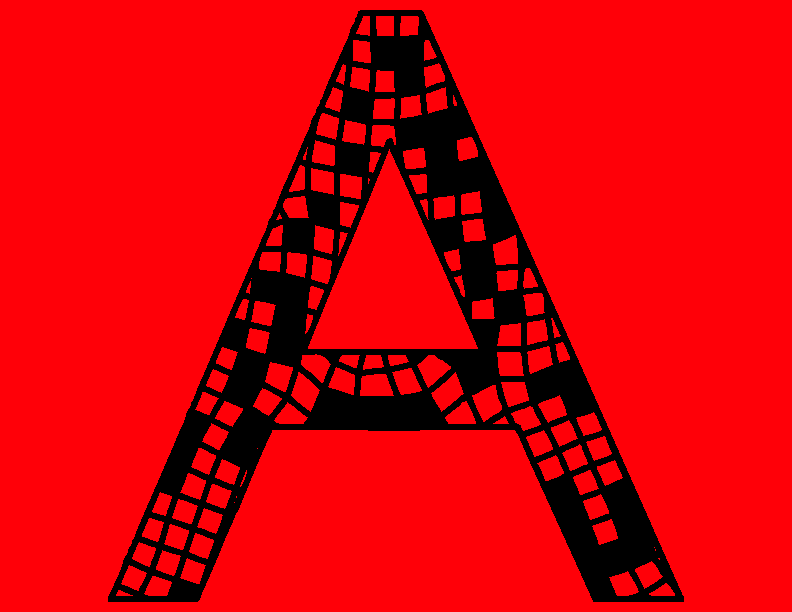
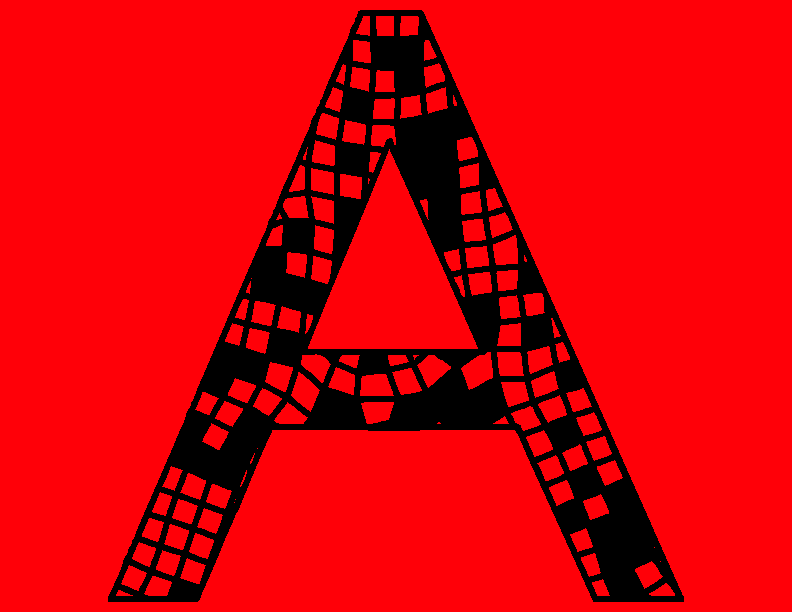
trying explode view with flood fill now

diff --git a/explode-view/explode.py b/explode-view/explode.py
@@ -49,25 +49,51 @@ def get_labeled_img(connected_comps):
     for i in range(num_labels):
         nodes[i] = labeled_img[label_hue==i]
 
-    ret = (nodes,labels,labeled_img)
+    largest_label = 1 + np.argmax(stats[1:, cv2.CC_STAT_AREA])
+    #print(largest_label)
+
+    ret = (nodes,labels,labeled_img,largest_label)
 
     return ret
 
+def fill_components(nodes, labels, labeled_img, largest_label):
+    graph = dict()
+    label_nums = list(nodes.keys())
+
+    #label_nums.remove(largest_label)
+
+    while label_nums:
+        for i,label in enumerate(label_nums):
+            mask_i = np.uint8(labels==label_nums[i])
+            mask_i = np.pad(mask_i, (1,1), 'constant', constant_values=(0))
+            cv2.floodFill(labeled_img, mask_i, (0,0), (255,255,255), flags=8)
+            cv2.imshow('helop', labeled_img)
+            cv2.waitKey(0)
+
+
 def make_levels(label_nums, labels, graph):
     level_num = len(graph.keys())
-    background_mask = sum(graph[l] for l in graph.keys())
     mask_0 = np.uint8(labels==0)
+    background_mask = sum(graph[l] for l in graph.keys())
+    #background_mask = graph[level_num-1]
+    
     graph[level_num] = np.zeros_like(mask_0)
 
     for i,label in enumerate(label_nums):
-        #print(i)
-
         mask_i = np.uint8(labels==label_nums[i])
-        
-        new_mask = background_mask+mask_i-mask_0
 
         kernel = np.ones((3,3),np.uint8)
+        new_mask = background_mask+mask_i-mask_0
         new_mask = cv2.dilate(new_mask, kernel, iterations=2)
+
+
+        label_hue = np.uint8(179*new_mask/np.max(new_mask))
+        blank_ch = 255*np.ones_like(label_hue)
+        labeled_img = cv2.merge([label_hue, blank_ch, blank_ch])
+        labeled_img = cv2.cvtColor(labeled_img, cv2.COLOR_HSV2BGR)
+        labeled_img[label_hue==0] = 0
+        #cv2.imshow('helop', labeled_img)
+        #cv2.waitKey(0)
 
         ret, thresh = cv2.threshold(new_mask,0,255,cv2.THRESH_BINARY+cv2.THRESH_OTSU)
         output = cv2.connectedComponentsWithStats(thresh, 8, cv2.CV_32S)
@@ -77,16 +103,18 @@ def make_levels(label_nums, labels, graph):
             graph[level_num] += mask_i
             label_nums.remove(label)
 
-def organize_components(nodes, labels, labeled_img):
-    background_mask = np.uint8(labels==0)
+def organize_components(nodes, labels, labeled_img, largest_label):
+    #background_mask = np.uint8(labels==largest_label)
 
     graph = dict()
-    graph[0] = background_mask
+    graph[largest_label] = background_mask
+    #background_mask = np.uint8(labels==0)
+    graph[largest_label] = background_mask
     # graph will have form
     # { level number : comp0 + comp1 + comp2 + ...] }
 
     label_nums = list(nodes.keys())
-    label_nums.remove(0)
+    label_nums.remove(largest_label)
 
     while label_nums:
         make_levels(label_nums, labels, graph)
@@ -127,9 +155,10 @@ if __name__ == '__main__':
     img = cv2.imread('a.png')
     output = get_components(img)
     print('connected components got')
-    nodes, labels, labeled_img = get_labeled_img(output)
+    nodes, labels, labeled_img, largest_label = get_labeled_img(output)
     print('labels got')
-    components = organize_components(nodes, labels, labeled_img)
-    print('levels got')
-    combine_components(components)
-    print('combined conmponents got')
+    #components = organize_components(nodes, labels, labeled_img, largest_label)
+    #print('levels got')
+    #combine_components(components)
+    #print('combined conmponents got')
+    fill_components(nodes, labels, labeled_img, largest_label)
